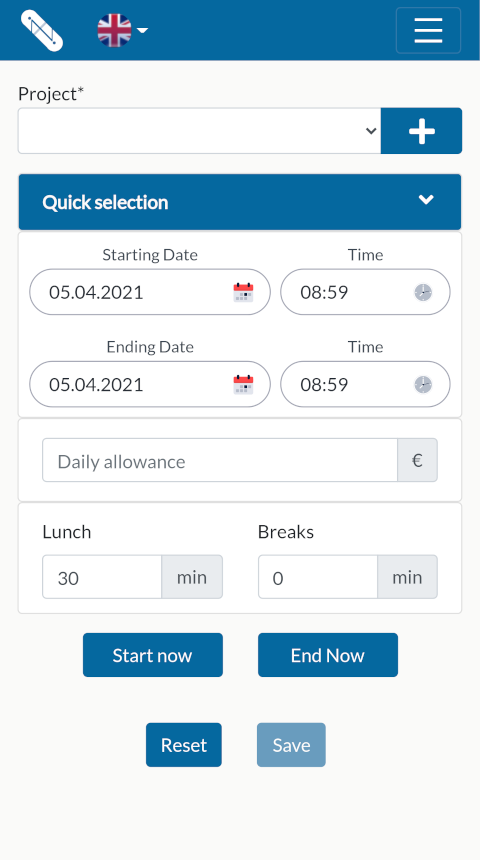
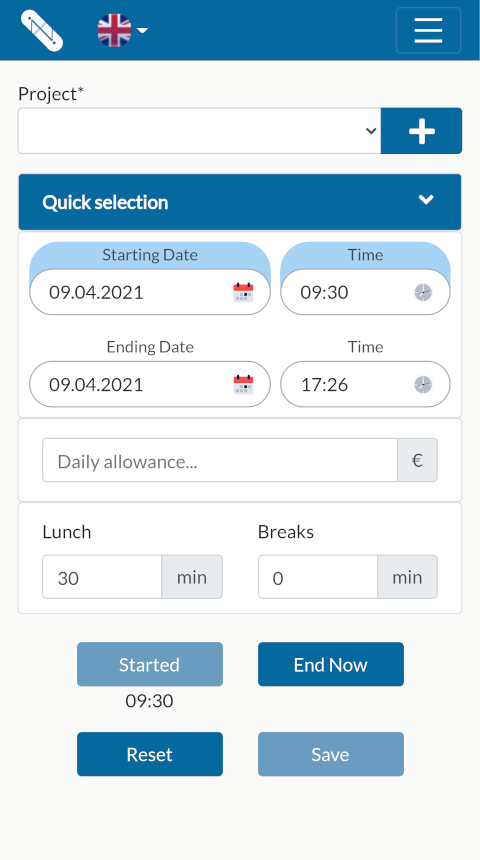
Update working time summary.

diff --git a/src/Timesheet/components/TimesheetSummary.js b/src/Timesheet/components/TimesheetSummary.js
@@ -1,4 +1,5 @@
 import React from "react";
+import Card from "react-bootstrap/Card";
 import Container from "react-bootstrap/Container";
 import Col from "react-bootstrap/Col";
 import Row from "react-bootstrap/Row";
@@ -46,39 +47,46 @@ export default function TimesheetSummary({
   return (
     <Container className="mw-1024">
       {startTime && endTime && (
-        <Container className="w-100 px-0 mx-auto">
-          <Row>
-            <Col className="summary-column">
-              <p className="m-1 p-0">
-                {datetimeAsDateString(startDate, language)}
-                {startDate.getDay() !== endDate.getDay() &&
-                  ` - ${datetimeAsDateString(endDate, language)}`}{" "}
-              </p>
-            </Col>
-            <Col className="summary-column">
-              <p className="m-1 p-0">
-                {startTime} - {endTime}
-              </p>
-            </Col>
-          </Row>
-          <Row>
-            <Col className="summary-column">
-              <p className="m-1 p-0">
-                {strings.lunch}: {lunchDuration} min
-              </p>
-            </Col>
-            <Col className="summary-column">
-              <p className="m-1 p-0">
-                {strings.breaks}: {breakDuration} min
-              </p>
-            </Col>
-          </Row>
-          <Row>
-            <Col className="summary-column">
-              <p className="m-1 p-0">{calculateDuration(startDate, startTime, endDate, endTime)}</p>
-            </Col>
-          </Row>
-        </Container>
+        <Card>
+          <Card.Header className="bg-primary text-white pb-0">
+            <Card.Title>{strings.summary}</Card.Title>
+          </Card.Header>
+          <Card.Body className="w-100">
+            <Row>
+              <Col xs={12} sm={6}>
+                <p>
+                  {datetimeAsDateString(startDate, language)}
+                  {startDate.getDay() !== endDate.getDay() &&
+                    ` - ${datetimeAsDateString(endDate, language)}`}{" "}
+                </p>
+              </Col>
+              <Col xs={12} sm={6}>
+                <p>
+                  {startTime} - {endTime}
+                </p>
+              </Col>
+            </Row>
+            <Row>
+              <Col>
+                <p>
+                  {strings.lunch}:<br />
+                  {lunchDuration} min
+                </p>
+              </Col>
+              <Col>
+                <p>
+                  {strings.breaks}:<br />
+                  {breakDuration} min
+                </p>
+              </Col>
+            </Row>
+            <Row>
+              <Col>
+                <p>{calculateDuration(startDate, startTime, endDate, endTime)}</p>
+              </Col>
+            </Row>
+          </Card.Body>
+        </Card>
       )}
     </Container>
   );

diff --git a/src/Timesheet/components/TimesheetSelect.js b/src/Timesheet/components/TimesheetSelect.js
@@ -27,6 +27,20 @@ export default function TimesheetSelect({
     setEndDate(value);
   };
 
+  const onStartTimeChanged = (value) => {
+    setStartTime(value);
+    if (startDate === null) {
+      setStartDate(new Date());
+    }
+  };
+
+  const onEndTimeChanged = (value) => {
+    setEndTime(value);
+    if (endDate === null) {
+      setEndDate(new Date());
+    }
+  };
+
   return (
     <Container className="px-0 mx-0">
       <Card>
@@ -45,7 +59,7 @@ export default function TimesheetSelect({
               <TimePicker
                 label={strings.time}
                 value={startTime !== null ? startTime : currentTime()}
-                onChange={(val) => setStartTime(val)}
+                onChange={(val) => onStartTimeChanged(val)}
                 hour24
                 locale="fi-FI"
                 style={startTime && { backgroundColor: "#53aceb88", borderRadius: "25px" }}
@@ -66,7 +80,7 @@ export default function TimesheetSelect({
               <TimePicker
                 label={strings.time}
                 value={endTime !== null ? endTime : currentTime()}
-                onChange={(val) => setEndTime(val)}
+                onChange={(val) => onEndTimeChanged(val)}
                 hour24
                 locale="fi-FI"
                 style={endTime && { backgroundColor: "#53aceb88", borderRadius: "25px" }}

diff --git a/src/Timesheet/components/TimesheetControls.js b/src/Timesheet/components/TimesheetControls.js
@@ -32,9 +32,13 @@ export default function TimesheetControls({
 
   return (
     <Container className="px-0 mx-0 center-flex flex-column">
-      <Row className="my-3" style={{ height: "45px" }}>
+      <Row className="mt-4 mb-3" style={{ height: "45px" }}>
         <Col xs={6}>
-          <Button onClick={handleStartNow} style={{ width: "120px" }} disabled={startTime !== null}>
+          <Button
+            onClick={handleStartNow}
+            style={{ minWidth: "125px" }}
+            disabled={startTime !== null}
+          >
             {startTime === null ? strings.startNow : strings.started}
           </Button>
           {startTime !== null && endTime === null && (
@@ -46,7 +50,7 @@ export default function TimesheetControls({
         <Col xs={6}>
           <Button
             onClick={handleEndNow}
-            style={{ width: "120px" }}
+            style={{ minWidth: "125px" }}
             disabled={startTime === null || endTime !== null}
           >
             {endTime === null ? strings.endNow : strings.ended}

diff --git a/src/Timesheet/TimesheetPage.js b/src/Timesheet/TimesheetPage.js
@@ -68,14 +68,6 @@ export default function TimesheetPage() {
         endTime={endTime}
         setEndTime={setEndTime}
       />
-      <TimesheetSummary
-        startDate={startDate || new Date()}
-        startTime={startTime}
-        endDate={endDate || new Date()}
-        endTime={endTime}
-        lunchDuration={lunchDuration}
-        breakDuration={breakDuration}
-      />
       <TimesheetPageControls
         startDate={startDate || new Date()}
         setStartDate={setStartDate}
@@ -89,6 +81,14 @@ export default function TimesheetPage() {
         breakDuration={breakDuration}
         dailyAllowance={dailyAllowance}
         selectedProject={selectedProject}
+      />
+      <TimesheetSummary
+        startDate={startDate || new Date()}
+        startTime={startTime}
+        endDate={endDate || new Date()}
+        endTime={endTime}
+        lunchDuration={lunchDuration}
+        breakDuration={breakDuration}
       />
       <Container style={{ height: "100px" }} />
     </Container>

diff --git a/src/Timesheet/components/TimesheetPageControls.js b/src/Timesheet/components/TimesheetPageControls.js
@@ -138,10 +138,17 @@ export default function TimesheetPageControls({
       ) : (
         <Row className="my-3">
           <Col xs={6} className="d-flex justify-content-end">
-            <Button onClick={handleReset}>{strings.reset}</Button>
+            <Button
+              style={{ minWidth: "125px" }}
+              onClick={handleReset}
+              disabled={startTime === null && endTime === null}
+            >
+              {strings.reset}
+            </Button>
           </Col>
           <Col xs={6}>
             <Button
+              style={{ minWidth: "125px" }}
               onClick={handleSave}
               disabled={startTime === null || endTime === null || !selectedProject || !isActive}
             >

diff --git a/src/Timesheet/components/strings.js b/src/Timesheet/components/strings.js
@@ -31,6 +31,7 @@ const strings = new LocalizedStrings({
     duration: "Duration",
     accountNoLongerActive:
       "Your account is no longer active. Purchase again to keep using the application.",
+    summary: "Summary",
   },
   fi: {
     projectMustBeSelected: "Valitse projekti",
@@ -62,6 +63,7 @@ const strings = new LocalizedStrings({
     duration: "Kesto",
     accountNoLongerActive:
       "Tilisi ei ole enää aktiivinen. Osta sovelluksen käyttöoikeus jatkaaksesi käyttöä.",
+    summary: "Yhteenveto",
   },
 });
 

diff --git a/src/Timesheet/components/styles.css b/src/Timesheet/components/styles.css
@@ -10,10 +10,6 @@
   z-index: 100;
 }
 
-.summary-column {
-  border: 1px solid lightgrey;
-}
-
 .quick-select-btn {
   width: 31%;
   margin-left: 5px;
